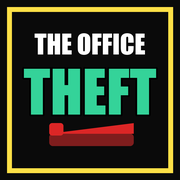
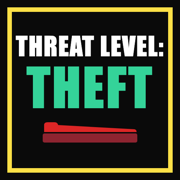
feat: renombrar a Threat Level: Theft y redibujar el póster
- Nombre nuevo en textos visibles, metadatos, manifiesto, iconos e imagen
  social. URLs, dominio y claves internas no cambian.
- Caras del póster con rasgos propios por personaje (trajes, carnets,
  gafas, aretes, corbatín, arrugas) y título sobre azul marino.
- Al pasar el cursor por un personaje se ve su foto de fichaje.

diff --git a/src/poster.ts b/src/poster.ts
@@ -11,13 +11,57 @@ const PANELS: readonly (readonly [string, string])[] = [
 const HEAD = 'M58 95 Q58 40 100 40 Q142 40 142 95 Q142 140 120 160 Q100 172 80 160 Q58 140 58 95Z'
 const TOP_HAIR = 'M55 94 Q50 28 100 28 Q150 28 145 94 Q136 60 100 57 Q64 60 55 94Z'
 
-function hair(look: Look, layer: 'back' | 'front'): string {
+/** Rasgos solo de la ilustración (el muñeco 3D no los lleva), por id de personaje. */
+interface Detail {
+  /** Cuello de la ropa. Por defecto: camisa si lleva corbata, redondo si no. */
+  readonly neck?: 'suit' | 'vest' | 'open' | 'vneck'
+  readonly hair?: 'messy' | 'bob' | 'top-bun' | 'crop'
+  readonly lanyard?: boolean
+  readonly earrings?: boolean
+  readonly bowtie?: boolean
+  readonly cat?: boolean
+  readonly glasses?: boolean
+  readonly wrinkles?: boolean
+  readonly sad?: boolean
+}
+
+const DETAILS: Readonly<Record<string, Detail>> = {
+  michael: { neck: 'suit' },
+  jim: { hair: 'messy' },
+  pam: { hair: 'bob', lanyard: true },
+  ryan: { neck: 'suit' },
+  kelly: { earrings: true },
+  toby: { sad: true },
+  angela: { cat: true },
+  oscar: { glasses: true },
+  kevin: { neck: 'vest' },
+  stanley: { hair: 'crop' },
+  phyllis: { neck: 'vneck', glasses: true },
+  creed: { wrinkles: true },
+  meredith: { hair: 'top-bun', lanyard: true },
+  andy: { neck: 'vest', bowtie: true },
+  darryl: { neck: 'open', hair: 'crop' },
+}
+
+/** Dibuja una pieza y su reflejo respecto al eje de la cara. */
+const both = (svg: string): string => `${svg}<g transform="translate(200 0) scale(-1 1)">${svg}</g>`
+
+function hair(look: Look, detail: Detail, layer: 'back' | 'front'): string {
   const fill = hex(look.hair)
-  const style = look.hairStyle
+  const style = detail.hair ?? look.hairStyle
   if (layer === 'back') {
-    return style === 'long'
-      ? `<path d="M50 95 Q40 18 100 22 Q160 18 150 95 L158 200 L42 200Z" fill="${fill}"/>`
-      : ''
+    switch (style) {
+      case 'long':
+        return `<path d="M50 95 Q40 18 100 22 Q160 18 150 95 L158 200 L42 200Z" fill="${fill}"/>`
+      case 'bob':
+        return `<path d="M52 96 Q42 20 100 22 Q158 20 148 96 Q164 150 142 180 L58 180 Q36 150 52 96Z" fill="${fill}"/>`
+      case 'bun':
+        return `<circle cx="148" cy="92" r="18" fill="${fill}"/>`
+      case 'top-bun':
+        return `<circle cx="132" cy="42" r="19" fill="${fill}"/>`
+      default:
+        return ''
+    }
   }
   switch (style) {
     case 'bald':
@@ -27,8 +71,14 @@ function hair(look: Look, layer: 'back' | 'front'): string {
     case 'curly':
       return [[62, 62], [78, 42], [100, 34], [122, 42], [138, 62], [56, 86], [144, 86]]
         .map(([cx, cy]) => `<circle cx="${cx}" cy="${cy}" r="19" fill="${fill}"/>`).join('')
+    case 'messy':
+      return `<path d="M54 98 Q44 28 100 24 Q156 28 146 98 Q142 76 130 62 L122 76 L112 58 L101 74 L90 58 L80 74 L70 60 Q58 76 54 98Z" fill="${fill}"/>`
+    case 'crop':
+      return `<path d="M57 88 Q52 36 100 34 Q148 36 143 88 Q138 58 100 54 Q62 58 57 88Z" fill="${fill}"/>`
+    case 'bob':
+      return `<path d="M55 96 Q48 28 100 28 Q152 28 145 96 Q140 62 112 54 Q84 62 55 96Z" fill="${fill}"/>`
     case 'bun':
-      return `<circle cx="100" cy="20" r="17" fill="${fill}"/><path d="${TOP_HAIR}" fill="${fill}"/>`
+    case 'top-bun':
     case 'short':
     case 'long':
       return `<path d="${TOP_HAIR}" fill="${fill}"/>`
@@ -38,42 +88,78 @@ function hair(look: Look, layer: 'back' | 'front'): string {
 const STROKE = 'stroke="#111" stroke-width="3.5" stroke-linejoin="round" stroke-linecap="round"'
 
 /** Capas del busto en un lienzo de 200 × 260, comunes al póster y a la foto de fichaje. */
-function layers(look: Look): { readonly behind: string; readonly head: string; readonly over: string } {
+function layers(c: Character): { readonly behind: string; readonly head: string; readonly over: string; readonly sad: boolean } {
+  const { look } = c
+  const detail = DETAILS[c.id] ?? {}
   const skin = hex(look.skin)
-  const shirt = look.tie === undefined ? '' : `
-    <path d="M78 180 L100 222 L122 180Z" fill="#f4f4f4"/>
-    <path d="M94 186 L106 186 L110 248 L100 262 L90 248Z" fill="${hex(look.tie)}"/>`
-  const glasses = look.glasses ? `
-    <rect x="68" y="88" width="28" height="20" rx="5" fill="none"/>
-    <rect x="104" y="88" width="28" height="20" rx="5" fill="none"/>
-    <path d="M96 96 L104 96" fill="none"/>` : ''
+  const top = hex(look.top)
+  const neck = detail.neck ?? (look.tie === undefined ? 'round' : 'shirt')
+  const wide = (svg: string): string => `<g transform="translate(100 0) scale(${look.wide ?? 1} 1) translate(-100 0)">${svg}</g>`
+  // Lo que asoma por el escote, por debajo del cuello.
+  const opening = {
+    suit: `<path d="M72 180 L100 228 L128 180Z" fill="#f4f4f4"/>`,
+    vest: `<path d="M74 180 L100 240 L126 180Z" fill="#f4f4f4"/>`,
+    open: `<path d="M82 180 L100 216 L118 180Z" fill="${skin}"/>`,
+    vneck: `<path d="M76 180 L100 224 L124 180Z" fill="${skin}"/>`,
+    shirt: '',
+    round: '',
+  }[neck]
+  const flaps = (fill: string): string => both(`<path d="M80 177 L100 198 L89 212 L74 188Z" fill="${fill}"/>`)
+  const collar = {
+    suit: both(`<path d="M72 181 L100 229 L84 248 L56 198Z" fill="${top}"/>`) + flaps('#f4f4f4'),
+    vest: flaps('#f4f4f4'),
+    open: both(`<path d="M80 177 L101 204 L84 216 L70 190Z" fill="${top}"/>`),
+    vneck: '',
+    shirt: flaps(top),
+    round: `<path d="M80 183 Q100 204 120 183" fill="none"/>`,
+  }[neck]
+  const tie = look.tie === undefined ? '' : detail.bowtie
+    ? both(`<path d="M100 204 L78 194 L78 216Z" fill="${hex(look.tie)}"/>`) + `<rect x="94" y="198" width="12" height="13" rx="3" fill="${hex(look.tie)}"/>`
+    : `<path d="M93 197 L107 197 L104 209 L96 209Z" fill="${hex(look.tie)}"/>
+       <path d="M96 209 L104 209 L110 250 L100 262 L90 250Z" fill="${hex(look.tie)}"/>`
+  const lanyard = detail.lanyard ? `
+    <path d="M85 183 L99 214 M115 183 L101 214" fill="none" stroke-width="2.5"/>
+    <rect x="88" y="212" width="24" height="18" rx="2" fill="#f4f4f4" stroke-width="2.5"/>
+    <rect x="91" y="216" width="8" height="10" fill="#4dabf7" stroke-width="1.5"/>
+    <path d="M102 218 h7 M102 223 h7" fill="none" stroke-width="1.5"/>` : ''
+  const cat = detail.cat
+    ? `<path d="M128 214 L131 204 L137 210 L143 210 L149 204 L152 214 Q152 226 140 226 Q128 226 128 214Z" fill="#8e5bd0" stroke-width="2"/>` : ''
+  const earrings = detail.earrings ? both(`<circle cx="55" cy="124" r="10" fill="none" stroke="#9aa0a6" stroke-width="4"/>`) : ''
+  const glasses = look.glasses || detail.glasses ? `
+    <rect x="66" y="87" width="30" height="22" rx="6" fill="#ffffff" fill-opacity="0.18" stroke-width="3"/>
+    <rect x="104" y="87" width="30" height="22" rx="6" fill="#ffffff" fill-opacity="0.18" stroke-width="3"/>
+    <path d="M96 96 L104 96 M66 95 L57 92 M134 95 L143 92" fill="none" stroke-width="3"/>` : ''
   const beard = look.beard
     ? `<path d="M62 118 Q64 160 100 171 Q136 160 138 118 Q120 134 100 131 Q80 134 62 118Z" fill="${hex(look.hair)}"/>` : ''
   const mustache = look.mustache
     ? `<path d="M82 132 Q100 120 118 132 L118 139 Q100 131 82 139Z" fill="${hex(look.hair)}"/>` : ''
+  const wrinkles = detail.wrinkles ? `
+    <path d="M82 66 Q100 61 118 66 M85 74 Q100 70 115 74 M66 108 L61 113 M134 108 L139 113 M80 132 Q76 140 80 148 M120 132 Q124 140 120 148" fill="none" stroke-width="1.8" opacity="0.55"/>
+    <path d="M70 44 L66 30 M82 38 L80 24 M100 36 L100 22 M118 38 L120 24 M130 44 L134 30" fill="none" stroke="${hex(look.hair)}" stroke-width="2"/>` : ''
   return {
     behind: `
-      ${hair(look, 'back')}
-      <g transform="translate(100 0) scale(${look.wide ?? 1} 1) translate(-100 0)">
-        <path d="M8 262 Q18 192 72 180 L128 180 Q182 192 192 262Z" fill="${hex(look.top)}"/>
-        ${shirt}
-      </g>
+      ${hair(look, detail, 'back')}
+      ${wide(`<path d="M8 262 Q18 192 72 180 L128 180 Q182 192 192 262Z" fill="${top}"/>${opening}`)}
       <path d="M84 148 L84 184 Q100 196 116 184 L116 148Z" fill="${skin}"/>
+      ${wide(`${collar}${tie}${lanyard}${cat}`)}
       <ellipse cx="56" cy="104" rx="7" ry="12" fill="${skin}"/>
-      <ellipse cx="144" cy="104" rx="7" ry="12" fill="${skin}"/>`,
+      <ellipse cx="144" cy="104" rx="7" ry="12" fill="${skin}"/>
+      ${earrings}`,
     head: `
       <path d="${HEAD}" fill="${skin}"/>
       <path d="M100 40 Q142 40 142 95 Q142 140 120 160 Q110 167 100 169Z" fill="#000" opacity="0.2" stroke="none"/>
       ${beard}
-      ${hair(look, 'front')}`,
+      ${hair(look, detail, 'front')}
+      ${wrinkles}`,
     over: `${mustache}${glasses}`,
+    sad: detail.sad === true,
   }
 }
 
 /** Busto ilustrado de trazo grueso y sombra dura, a partir del mismo `Look` que la figura 3D. */
 function bust(c: Character, index: number): string {
   const [top, bottom] = PANELS[index % PANELS.length] ?? ['#888888', '#444444']
-  const { behind, head, over } = layers(c.look)
+  const { behind, head, over, sad } = layers(c)
   return `
   <svg viewBox="0 0 200 260" preserveAspectRatio="xMidYMax slice" class="absolute inset-0 size-full" role="img" aria-label="${c.name}">
     <defs><linearGradient id="bg-${c.id}" x1="0" y1="0" x2="0" y2="1">
@@ -81,16 +167,19 @@ function bust(c: Character, index: number): string {
     </linearGradient></defs>
     <rect width="200" height="260" fill="url(#bg-${c.id})"/>
     <path d="M-40 260 L120 -20 L170 -20 L10 260Z" fill="#ffffff" opacity="0.12"/>
-    <g ${STROKE}>
+    <!-- Encogido hacia la base: las viñetas anchas recortan por arriba y se comían el pelo. -->
+    <g ${STROKE} transform="translate(100 262) scale(0.88) translate(-100 -262)">
       ${behind}
       ${head}
-      <ellipse cx="82" cy="99" rx="8" ry="4.5" fill="#fff" stroke-width="2"/>
-      <ellipse cx="118" cy="99" rx="8" ry="4.5" fill="#fff" stroke-width="2"/>
-      <circle cx="83" cy="99" r="3" fill="#111" stroke="none"/>
-      <circle cx="119" cy="99" r="3" fill="#111" stroke="none"/>
-      <path d="M71 87 L93 85 M107 85 L129 87" fill="none" stroke-width="5"/>
+      <ellipse cx="82" cy="99" rx="8.5" ry="6.5" fill="#fff" stroke-width="2"/>
+      <ellipse cx="118" cy="99" rx="8.5" ry="6.5" fill="#fff" stroke-width="2"/>
+      <circle cx="83" cy="${sad ? 100.5 : 99}" r="3.6" fill="#111" stroke="none"/>
+      <circle cx="119" cy="${sad ? 100.5 : 99}" r="3.6" fill="#111" stroke="none"/>
+      <circle cx="81.8" cy="97.6" r="1.2" fill="#fff" stroke="none"/>
+      <circle cx="117.8" cy="97.6" r="1.2" fill="#fff" stroke="none"/>
+      <path d="${sad ? 'M70 88 Q80 82 93 81 M107 81 Q120 82 130 88' : 'M71 86 Q82 81 93 85 M107 85 Q118 81 129 86'}" fill="none" stroke-width="3.5"/>
       <path d="M101 102 L96 123 L105 125" fill="none" stroke-width="2.5"/>
-      <path d="M88 142 Q100 147 113 141" fill="none" stroke-width="3"/>
+      <path d="${sad ? 'M88 146 Q100 140 112 146' : 'M88 141 Q100 149 113 141'}" fill="none" stroke-width="3"/>
       ${over}
     </g>
   </svg>`
@@ -99,11 +188,12 @@ function bust(c: Character, index: number): string {
 /**
  * Foto de fichaje: el personaje atrapado, triste, con el antifaz caído al cuello y su placa.
  * `capture` es el número de captura que sale en la placa. Solo datos estáticos propios.
+ * `fill`: ocupa todo su contenedor recortando, en vez de ajustarse a su alto.
  */
-export function mugshotHtml(c: Character, capture: number): string {
+export function mugshotHtml(c: Character, capture: number, fill = false): string {
   const { look } = c
   const skin = hex(look.skin)
-  const { behind, head, over } = layers(look)
+  const { behind, head, over } = layers(c)
   const marks = [0, 1, 2, 3, 4, 5, 6].map((i) => {
     const y = 24 + i * 34
     return `
@@ -116,7 +206,7 @@ export function mugshotHtml(c: Character, capture: number): string {
     <rect x="${x}" y="222" width="30" height="34" rx="11" fill="${skin}"/>
     <path d="M${x + 4} 232 h22 M${x + 4} 240 h22 M${x + 4} 248 h22" fill="none" stroke-width="2"/>`
   return `
-  <svg viewBox="0 0 240 300" class="h-full w-auto" role="img" aria-label="Foto de fichaje de ${c.name}">
+  <svg viewBox="0 0 240 300" ${fill ? 'preserveAspectRatio="xMidYMid slice" class="size-full"' : 'class="h-full w-auto"'} role="img" aria-label="Foto de fichaje de ${c.name}">
     <defs>
       <linearGradient id="mug-wall" x1="0" y1="0" x2="0" y2="1">
         <stop offset="0" stop-color="#e9e4d6"/><stop offset="1" stop-color="#b9b3a2"/>
@@ -178,16 +268,18 @@ export function mugshotHtml(c: Character, capture: number): string {
 
 /** Póster de inicio: viñetas con bordes negros y el logo en el centro. Solo datos estáticos propios. */
 export function posterHtml(): string {
+  // Al pasar el cursor, la viñeta enseña la foto de fichaje del personaje.
   const panels = CHARACTERS.map((c, i) => `
-    <div class="relative overflow-hidden">
+    <div class="group relative overflow-hidden">
       ${bust(c, i)}
-      <span class="ink absolute bottom-1 left-2 text-sm md:text-2xl">${c.name.toUpperCase()}</span>
+      <div class="absolute inset-0 opacity-0 transition-opacity duration-200 group-hover:opacity-100">${mugshotHtml(c, i + 1, true)}</div>
+      <span class="ink absolute bottom-1 left-2 text-sm transition-opacity group-hover:opacity-0 md:text-2xl">${c.name.toUpperCase()}</span>
     </div>`).join('')
   return `
     ${panels}
-    <div class="ink col-span-2 col-start-3 row-start-2 flex portrait:col-start-1 portrait:row-start-3 flex-col items-center justify-center bg-black text-center leading-none">
-      <span class="text-[min(4vw,5vh)] tracking-widest text-white">THE OFFICE</span>
+    <div class="ink col-span-2 col-start-3 row-start-2 flex portrait:col-start-1 portrait:row-start-3 flex-col items-center justify-center bg-[#0f1838] text-center leading-none">
+      <span class="text-[min(5.2vw,6.5vh)] text-yellow-300 italic">THREAT LEVEL:</span>
       <span class="text-[min(11vw,13vh)] text-emerald-400">THEFT</span>
-      <span class="mt-2 animate-pulse text-[min(3vw,3.5vh)] text-yellow-300">ENTER O TOCA PARA EMPEZAR</span>
+      <span class="mt-2 animate-pulse text-[min(2.6vw,3.2vh)] text-yellow-400">ENTER O TOCA PARA EMPEZAR</span>
     </div>`
 }

diff --git a/index.html b/index.html
@@ -3,31 +3,31 @@
   <head>
     <meta charset="UTF-8" />
     <meta name="viewport" content="width=device-width, initial-scale=1.0, maximum-scale=1.0, user-scalable=no, viewport-fit=cover" />
-    <title>The Office Theft — roba la oficina sin que te vean</title>
+    <title>Threat Level: Theft — roba la oficina sin que te vean</title>
     <meta name="description" content="Juego de sigilo isométrico gratis: elige a tu personaje y roba cosas de la oficina sin que te vean. Un minuto por nivel, tablón mundial, en navegador y celular." />
     <meta name="referrer" content="no-referrer" />
     <link rel="canonical" href="https://the-office-theft.vercel.app/" />
     <link rel="icon" type="image/png" href="/icon-192.png" />
     <meta property="og:type" content="website" />
-    <meta property="og:site_name" content="The Office Theft" />
+    <meta property="og:site_name" content="Threat Level: Theft" />
     <meta property="og:locale" content="es_ES" />
     <meta property="og:url" content="https://the-office-theft.vercel.app/" />
-    <meta property="og:title" content="The Office Theft — roba la oficina sin que te vean" />
+    <meta property="og:title" content="Threat Level: Theft — roba la oficina sin que te vean" />
     <meta property="og:description" content="Juego de sigilo isométrico gratis: elige a tu personaje y roba cosas de la oficina sin que te vean. Un minuto por nivel, tablón mundial, en navegador y celular." />
     <meta property="og:image" content="https://the-office-theft.vercel.app/og.png" />
     <meta property="og:image:type" content="image/png" />
     <meta property="og:image:width" content="1200" />
     <meta property="og:image:height" content="630" />
-    <meta property="og:image:alt" content="Póster de The Office Theft: roba la oficina sin que te vean" />
+    <meta property="og:image:alt" content="Póster de Threat Level: Theft: roba la oficina sin que te vean" />
     <meta name="twitter:card" content="summary_large_image" />
-    <meta name="twitter:title" content="The Office Theft — roba la oficina sin que te vean" />
+    <meta name="twitter:title" content="Threat Level: Theft — roba la oficina sin que te vean" />
     <meta name="twitter:description" content="Juego de sigilo isométrico gratis: elige a tu personaje y roba cosas de la oficina sin que te vean. Un minuto por nivel, tablón mundial, en navegador y celular." />
     <meta name="twitter:image" content="https://the-office-theft.vercel.app/og.png" />
     <script type="application/ld+json">
       {
         "@context": "https://schema.org",
         "@type": "VideoGame",
-        "name": "The Office Theft",
+        "name": "Threat Level: Theft",
         "url": "https://the-office-theft.vercel.app/",
         "image": "https://the-office-theft.vercel.app/og.png",
         "description": "Juego de sigilo isométrico gratis: elige a tu personaje y roba cosas de la oficina sin que te vean. Un minuto por nivel, tablón mundial, en navegador y celular.",
@@ -44,7 +44,7 @@
     <meta name="apple-mobile-web-app-capable" content="yes" />
     <meta name="mobile-web-app-capable" content="yes" />
     <meta name="apple-mobile-web-app-status-bar-style" content="black" />
-    <meta name="apple-mobile-web-app-title" content="Office Theft" />
+    <meta name="apple-mobile-web-app-title" content="Threat Level" />
     <meta name="theme-color" content="#0a0a0a" />
   </head>
   <body class="font-gta m-0 touch-manipulation overflow-hidden overscroll-none bg-neutral-950 text-white select-none">

diff --git a/src/main.ts b/src/main.ts
@@ -418,7 +418,7 @@ ui.innerHTML = `
   </div>
   <div id="poster" class="pointer-events-auto absolute inset-0 z-10 grid cursor-pointer grid-cols-6 grid-rows-3 gap-1 bg-black p-1 md:gap-2 md:p-2 portrait:grid-cols-3 portrait:grid-rows-6">${posterHtml()}</div>
   <div id="menu" class="pointer-events-auto absolute inset-0 flex flex-col items-center gap-4 overflow-y-auto bg-black/75 p-3 md:p-6">
-    <h1 class="ink text-center text-4xl text-yellow-300 md:text-7xl">THE OFFICE <span class="text-emerald-400">THEFT</span></h1>
+    <h1 class="ink text-center text-4xl text-yellow-300 md:text-7xl">THREAT LEVEL: <span class="text-emerald-400">THEFT</span></h1>
     <p class="ink text-center text-base text-neutral-200 md:text-xl">Elige a tu ladrón. Roba sin que te vean mientras lo coges. Un minuto por nivel.</p>
     <p id="account" class="ink text-center text-lg text-emerald-400 md:text-2xl"></p>
     <dialog id="signup" class="pointer-events-auto m-auto w-full max-w-sm rounded-xl border-2 border-yellow-300 bg-neutral-900 p-5 text-white backdrop:bg-black/70">
@@ -757,7 +757,7 @@ function reportWin(): void {
 
 dom.shareBtn.addEventListener('click', (e) => {
   e.stopPropagation() // el cartel entero avanza de nivel al tocarlo
-  const text = `Llegué al nivel ${bestLevel}${rank ? ` y voy #${rank}` : ''} en The Office Theft. ¿Me superas?`
+  const text = `Llegué al nivel ${bestLevel}${rank ? ` y voy #${rank}` : ''} en Threat Level: Theft. ¿Me superas?`
   const url = location.origin
   const done = navigator.share
     ? navigator.share({ text, url })

diff --git a/README.md b/README.md
@@ -1,4 +1,4 @@
-# The Office Theft
+# Threat Level: Theft
 
 Un juego de sigilo en el que te cuelas en una oficina para llevarte todo lo que puedas sin que tus compañeros te descubran. Elige a quién controlar, esquiva a quienes patrullan y aprovecha la habilidad especial de tu personaje: tienes **un minuto por nivel** para completar el robo, aunque algunas habilidades pueden darte más tiempo.
 
